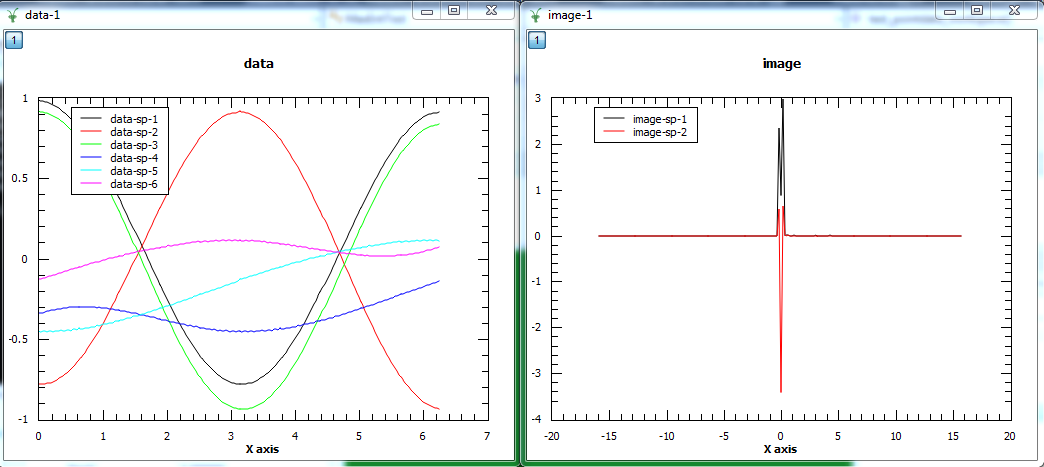
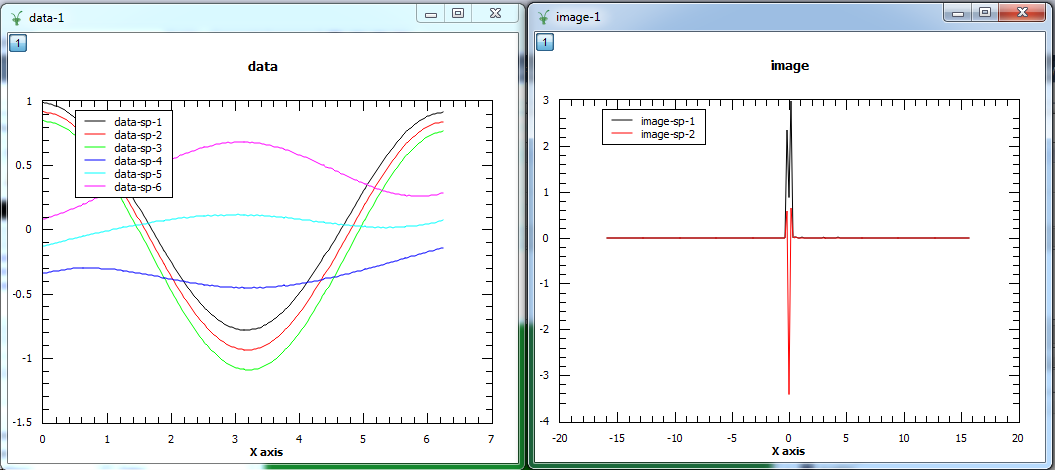
Update documentation to bug fix re #21577

diff --git a/docs/source/algorithms/MaxEnt-v1.rst b/docs/source/algorithms/MaxEnt-v1.rst
@@ -720,10 +720,7 @@ This is done by setting the *PerSpectrumImage* property to *false*.
    print("Reconstruction at 05 of third spectrum: {:.3f}".format(data.readY(2)[5]))
    print("Reconstruction at 10 of third spectrum: {:.3f}".format(data.readY(2)[10]))
    print("Reconstruction at 15 of third spectrum: {:.3f}".format(data.readY(2)[15]))
-   print("Number of iterations of first spectrum: "+str( len(evolAngle.readX(0))))
-
-   nIter = len(evolChi.readX(0))
-   print("Number of iterations: "+str( nIter ))
+   print("Number of iterations: "+str( len(evolAngle.readX(0))))
    
 Output:
 
@@ -732,10 +729,9 @@ Output:
    Reconstruction at 05 of first spectrum: 0.971
    Reconstruction at 10 of first spectrum: 0.935
    Reconstruction at 15 of first spectrum: 0.881
-   Reconstruction at 05 of third spectrum: 0.901
-   Reconstruction at 10 of third spectrum: 0.867
-   Reconstruction at 15 of third spectrum: 0.814
-   Number of iterations of first spectrum: 59
+   Reconstruction at 05 of third spectrum: 0.831
+   Reconstruction at 10 of third spectrum: 0.800
+   Reconstruction at 15 of third spectrum: 0.746
    Number of iterations: 59
    
 .. figure:: ../images/MaxEntAdjustTogether.png
